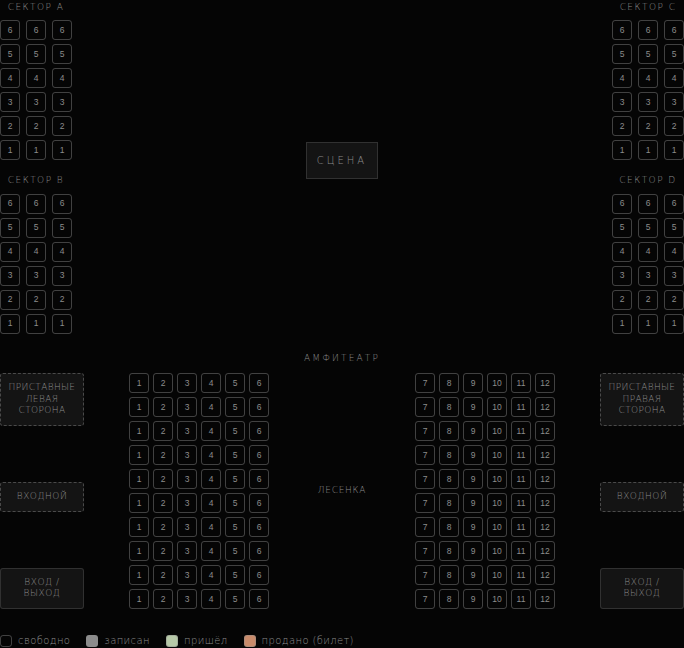
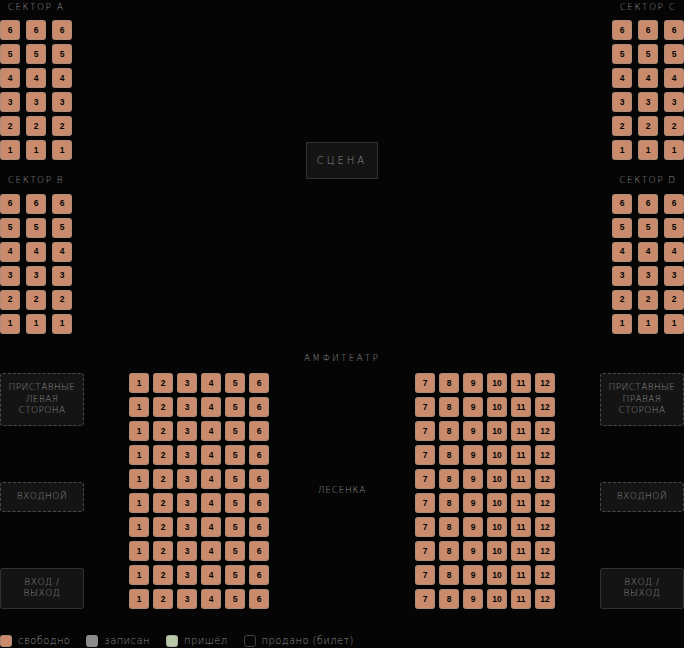
komnata-guests-v21

diff --git a/style.css b/style.css
@@ -159,14 +159,14 @@ main{max-width:720px;margin:0 auto;padding:18px 18px calc(18px + 84px + env(safe
 .seat-row{display:flex;gap:4px}
 .seat{
   width:20px;height:20px;border-radius:3px;border:1px solid rgba(140,140,140,.45);
-  background:transparent;cursor:pointer;flex:0 0 auto;transition:border-color .15s,background .15s;
+  background:var(--warn);cursor:pointer;flex:0 0 auto;transition:border-color .15s,background .15s;
   display:flex;align-items:center;justify-content:center;
-  font-size:8.5px;line-height:1;color:var(--steel);font-family:'Inter',sans-serif;
+  font-size:8.5px;line-height:1;color:var(--void);font-family:'Inter',sans-serif;font-weight:600;
 }
 .seat:not(.filled):not(.sold):hover{border-color:var(--light);background:rgba(255,255,255,.1)}
 .seat.filled{border-color:transparent;background:var(--steel);cursor:pointer;color:var(--void);font-weight:600}
 .seat.arrived{background:var(--ok);cursor:pointer;color:var(--void)}
-.seat.sold{border-color:transparent;background:var(--warn);cursor:pointer;color:var(--void);font-weight:600}
+.seat.sold{border-color:rgba(140,140,140,.45);background:transparent;cursor:pointer;color:var(--steel);font-weight:400}
 .amphi-label{text-align:center;font-size:9px;letter-spacing:.24em;text-transform:uppercase;color:var(--steel);margin-bottom:8px}
 .amphi-wrap{display:flex;justify-content:space-between;align-items:stretch;gap:14px}
 .amphi-side{display:flex;flex-direction:column;justify-content:space-between;align-items:center;width:84px;min-width:84px;flex-shrink:0}
@@ -191,10 +191,10 @@ main{max-width:720px;margin:0 auto;padding:18px 18px calc(18px + 84px + env(safe
 .extra-col span{font-size:9px;letter-spacing:.04em;color:var(--steel);text-transform:uppercase;white-space:normal;overflow-wrap:break-word;word-break:break-word;text-align:center;line-height:1.3;width:100%}
 .legend{display:flex;gap:16px;flex-wrap:wrap;margin:18px 0;font-size:10px;color:var(--steel);letter-spacing:.04em}
 .legend .lg{display:flex;align-items:center;gap:6px}
-.legend .dot{width:12px;height:12px;border-radius:3px;border:1px solid rgba(140,140,140,.45)}
+.legend .dot{width:12px;height:12px;border-radius:3px;border:1px solid rgba(140,140,140,.45);background:var(--warn)}
 .legend .dot.filled{border-color:transparent;background:var(--steel)}
 .legend .dot.arrived{background:var(--ok)}
-.legend .dot.sold{background:var(--warn)}
+.legend .dot.sold{background:transparent}
 .loose-title{font-size:11px;letter-spacing:.14em;text-transform:uppercase;color:var(--steel);margin:22px 0 8px}
 .loose-chip{
   display:flex;justify-content:space-between;align-items:center;gap:10px;

diff --git a/README.md b/README.md
@@ -1,6 +1,6 @@
 # КОМНАТА СВЕТА — страница гостей (БуФест 2026 · Вход)
 
-**Версия: `komnata-guests-v20`**
+**Версия: `komnata-guests-v21`**
 
 Мини-приложение для регистрации гостей на входе БуФеста. Три файла —
 `vhod.html` (то, что открывают на телефоне у входа), `style.css`
@@ -230,6 +230,33 @@ AMPHI_ROWS = 10, по 12 мест в ряду  — амфитеатр
 при изменении состава труппы/команды.
 
 ## Журнал изменений
+
+### `komnata-guests-v21` — этап 1: цвета «свободно»/«продано» поменяны местами (по прямому запросу, эталон обновлён)
+
+Первая осознанная правка правила 1 (заморозки схемы) с самого его
+введения — сделана по протоколу из самого правила: заказчик явно
+разрешил, попросил максимальной осторожности и постоянных
+скриншотов, я перед началом проговорил понимание правки и дождался
+подтверждения, что понял верно, только потом тронул CSS.
+
+Было: `.seat` (свободно) — прозрачный фон, `.seat.sold` (продано) —
+рыжий (`var(--warn)`, `#C98B6B`). Стало наоборот: `.seat` — рыжий,
+`.seat.sold` — прозрачный. Те же две строчки продублированы для
+`.legend .dot`/`.dot.sold` (сама легенда под схемой). `.seat.filled`
+(записан, серый) и `.seat.arrived` (пришёл, зелёный) не тронуты — про
+них в запросе речи не было.
+
+Проверено, не на глаз: скриншоты до/после с гостями во всех 4 статусах
+сразу (свободно/записан/пришёл/продано) — заказчик подтвердил результат
+визуально; координаты всех элементов сверены через `getBoundingClientRect`
+до и после — секторы `[18, 18, 630, 630]`, амфитеатр `[147, 433]`,
+фигура `684px`, идентично эталону, поменялся только цвет
+(`getComputedStyle` подтвердил `rgb(201, 139, 107)` у `.seat`). После
+подтверждения — `docs/schema-reference.png` перегенерирован с нового
+состояния, сверка с самим собой — 0 отличающихся пикселей.
+
+Этап 2 (номера рядов прямо на схеме, без наведения/подсчёта) —
+отдельная правка, ждёт своей очереди.
 
 ### `komnata-guests-v20` — новое правило: таблицу теперь править только по свежей копии от заказчика
 
